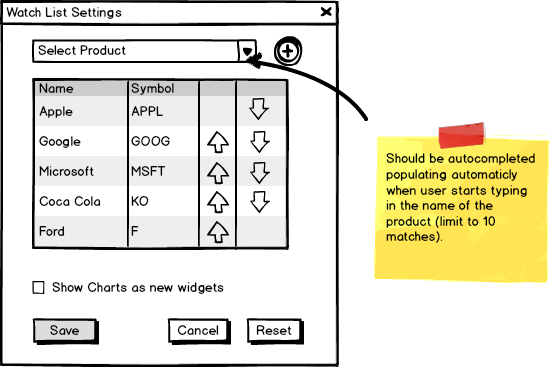
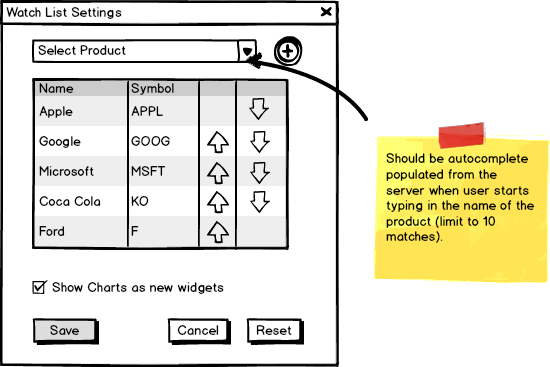
Chart Widget

Changed region(s): [[0.68, 0.4496, 0.9891, 0.5995], [0.0618, 0.7493, 0.0927, 0.8093], [0.9582, 0.4196, 0.9891, 0.4496]]

diff --git a/README.md b/README.md
@@ -44,7 +44,7 @@ There are 3 types of widgets:
  * **Price Chart**. Price history for certain product
  * **Trade Feed**. Latest updates feed
 
-Each widget also has it's own settings (which would be described in more details below) and behaviour: _Trade Feed_ and _Watch List_ could be shown only once per dashboard while _Price Chart_ could be instantiated multiple times. 
+Each widget also has it's own settings (which would be described in more details below) and behaviour: _Trade Feed_ and _Watch List_ could be shown only once per dashboard while _Price Chart_ could be instantiated multiple times (see details below).
 
 ### Settings
 
@@ -78,7 +78,8 @@ Settings for the watchlist window should look like this:
 
 ![Watchlist Settings](/mockups/watchlist-settings.png?raw=true)
 
-Once user starts typing the product name in dropdown autocomplete:
+`Show Charts as new widgets` checkbox should control the **chart** button behaviour, allowing user either to disaplay only one chart-widget or have multiple widgets per each product.
+Once user starts typing inside 'Select Product' dropdown autocomplete should appear with results populated from the server:
 
 ![Watchlist Settings Select](/mockups/watchlist-settings-select.png?raw=true)
 
@@ -86,13 +87,52 @@ For the list of the products you can use [Markit On Demand Api](http://dev.marki
 
     http://dev.markitondemand.com/Api/v2/Lookup/json?input=app
 
+Adding the product to the watch list should be done by `+` button which should be active only when the product is selected. User also should have the ability to **reorder** items in the watch list which should be done by arrom-controls in the table.
+
 To get product details you can either use [markitondemand's Stock Quote API](http://dev.markitondemand.com/#stockquote):
 
     http://dev.markitondemand.com/Api/v2/Quote/json?symbol=AAPL
 
-Or use [YQL API](http://developer.yahoo.com/yql/console/?q=select%20*%20from%20yahoo.finance.quotes%20where%20symbol%20=%20'AAPL'&env=store%3A%2F%2Fdatatables.org%2Falltableswithkeys) from yahoo (which might be more flexible):
+Or use [Yahoo's YQL](http://developer.yahoo.com/yql/console/?q=select%20*%20from%20yahoo.finance.quotes%20where%20symbol%20=%20'AAPL'&env=store%3A%2F%2Fdatatables.org%2Falltableswithkeys) from yahoo (which might be more flexible):
 
     select * from yahoo.finance.quotes where symbol = 'AAPL'
+
+
+#### Chart
+
+This widget should disaply product's price change within a certain period of time:
+
+![Chart](/mockups/chart?raw=true)
+
+Chart settings should give the possiblity to change the product and the time period:
+
+![Chart Settings](/mockups/chart-settings?raw=true)
+
+Time periods are specified in months. For example if today is 16th of September 2014 than the time period should show:
+
+ * **1m** - from 16th of August 2014 till now
+ * **3m** - from 16th of June 2014 till now
+ * **12m** - from 16th of September 2013 till now
+
+To get historical prices you can either use [markitondemand's API](http://dev.markitondemand.com/#interactive):
+
+    "http://dev.markitondemand.com/Api/v2/InteractiveChart/json?parameters={"Normalized":false,"NumberOfDays":365,"DataPeriod":"Day","Elements":[{"Symbol":"AAPL","Type":"price","Params":["c"]}]}"
+
+Or [Yahoo's YQL](http://developer.yahoo.com/yql/console/?q=select%20*%20from%20yahoo.finance.historicaldata%20where%20symbol%20%3D%20%22YHOO%22%20and%20startDate%20%3D%20%222009-09-11%22%20and%20endDate%20%3D%20%222010-03-10%22&env=store%3A%2F%2Fdatatables.org%2Falltableswithkeys):
+
+    select * from yahoo.finance.historicaldata
+    where symbol = "APPL" and
+    startDate = "2009-09-11" and
+    endDate = "2010-03-10"
+
+You can also use [Quandl API](https://www.quandl.com/help/api):
+
+    http://www.quandl.com/api/v1/datasets/GOOG/NASDAQ_AAPL.json?trim_start=2013-09-16&trim_end=2014-09-16
+
+
+#### Trade deed
+
+This widget should disaply latest update from 
 
 ## Contacts
 
